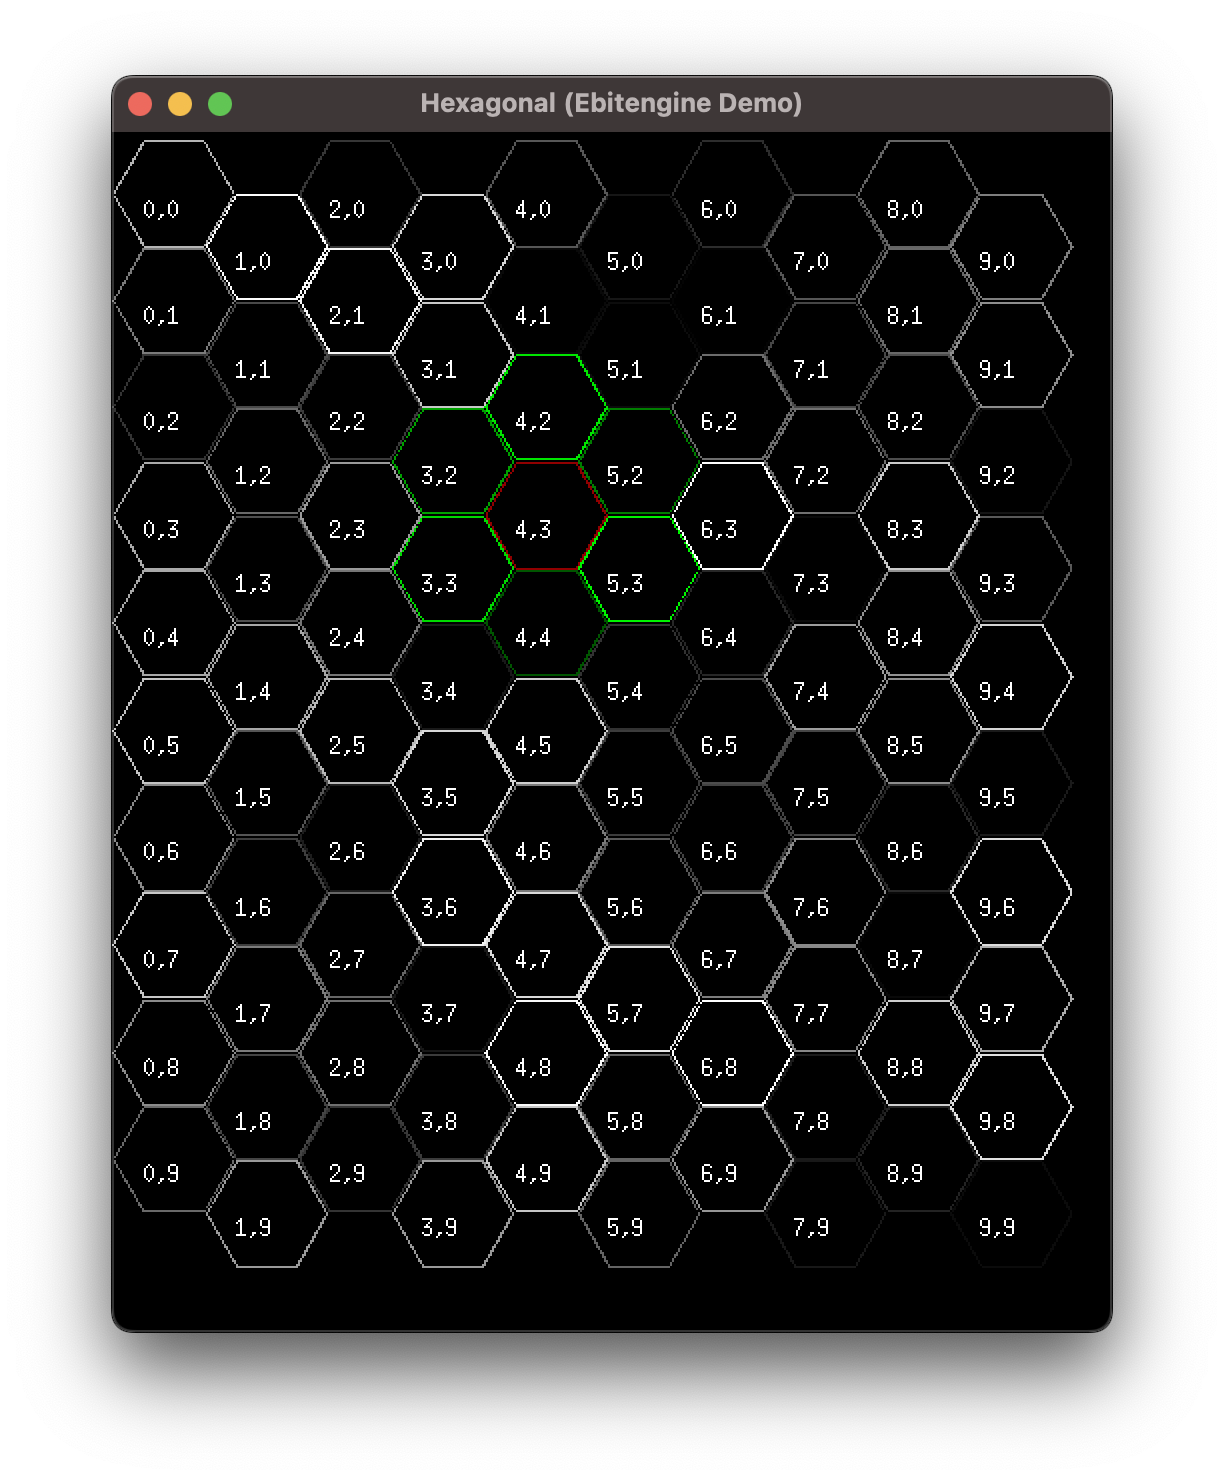
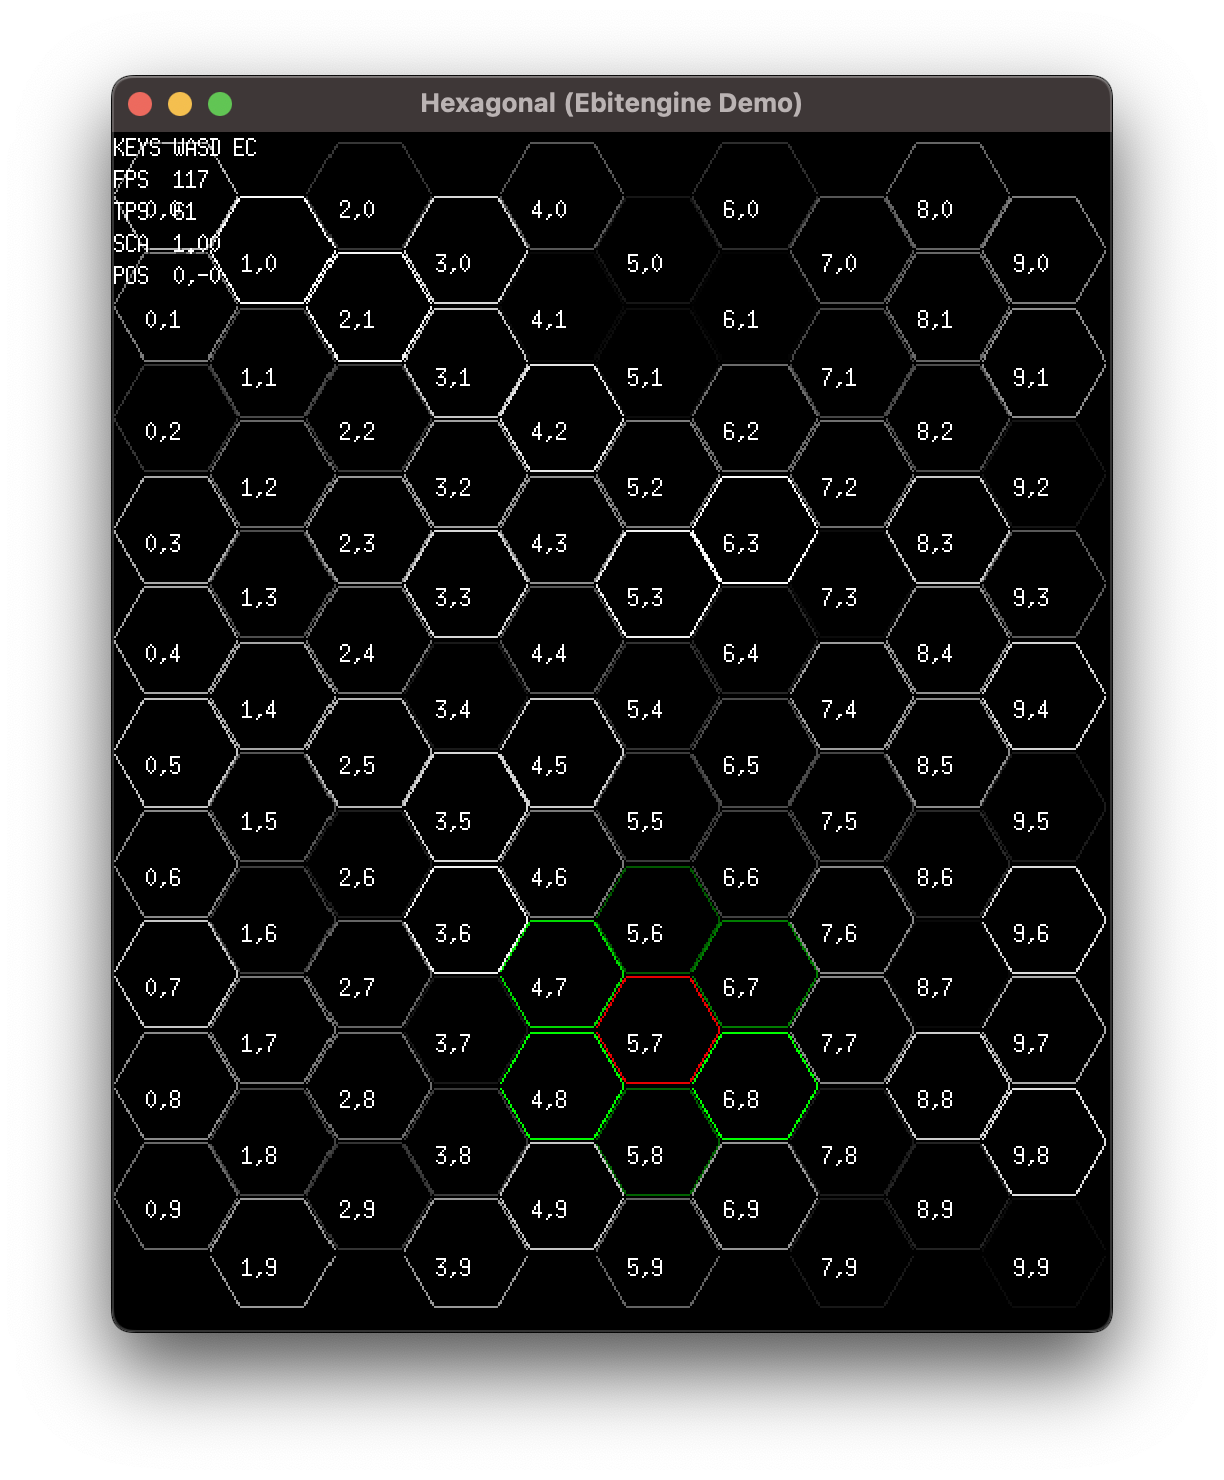
gamehex: Additional debug info

diff --git a/gamehex/gamehex.go b/gamehex/gamehex.go
@@ -7,6 +7,7 @@ import (
 	"math"
 
 	"github.com/hajimehoshi/ebiten"
+	"github.com/hajimehoshi/ebiten/ebitenutil"
 )
 
 type Game struct {
@@ -132,6 +133,9 @@ func (g *Game) Update() error {
 func (g *Game) Draw(screen *ebiten.Image) {
 	// Render level.
 	g.renderLevel(screen)
+
+	// Print game info.
+	ebitenutil.DebugPrint(screen, fmt.Sprintf("KEYS WASD EC\nFPS  %0.0f\nTPS  %0.0f\nSCA  %0.2f\nPOS  %0.0f,%0.0f", ebiten.ActualFPS(), ebiten.ActualTPS(), g.camScale, g.camX, g.camY))
 }
 
 // Layout is called when the Game's layout changes.
